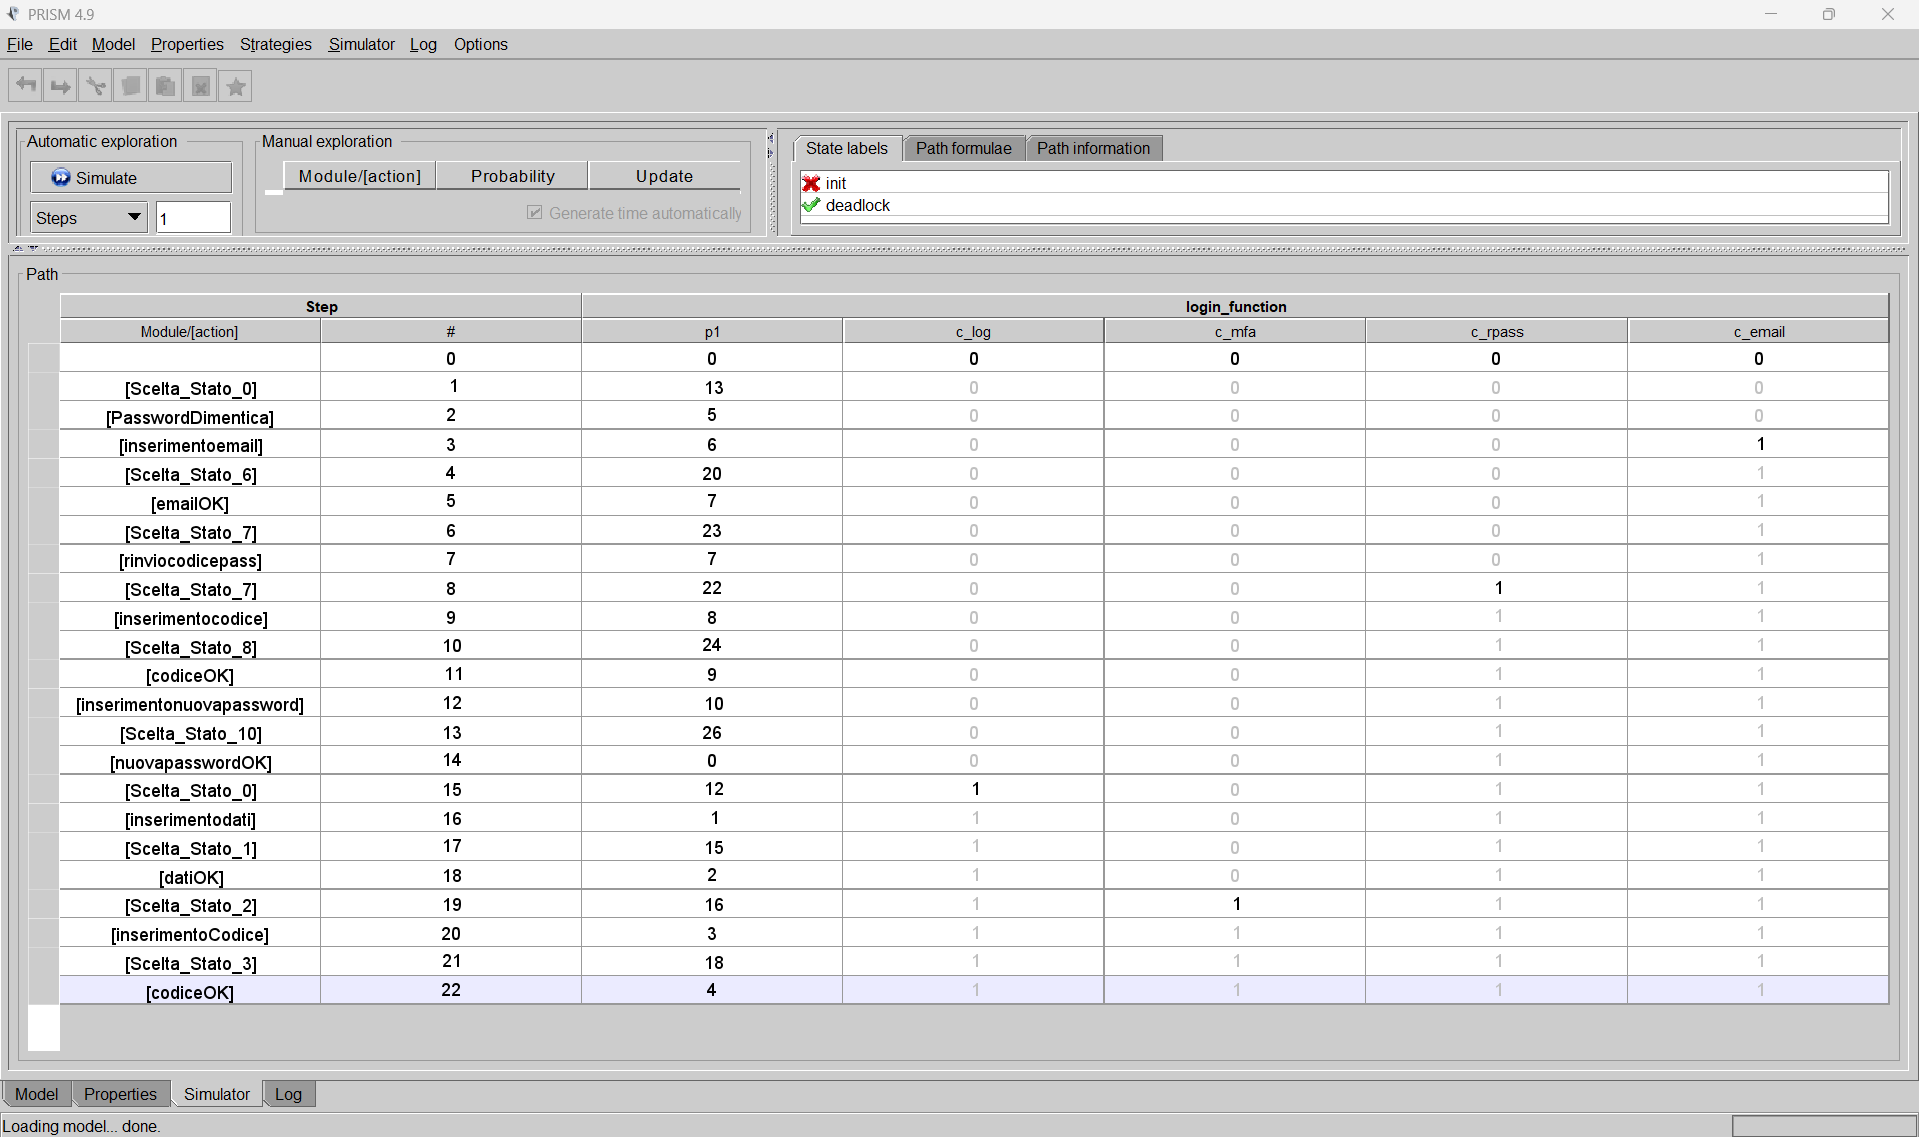
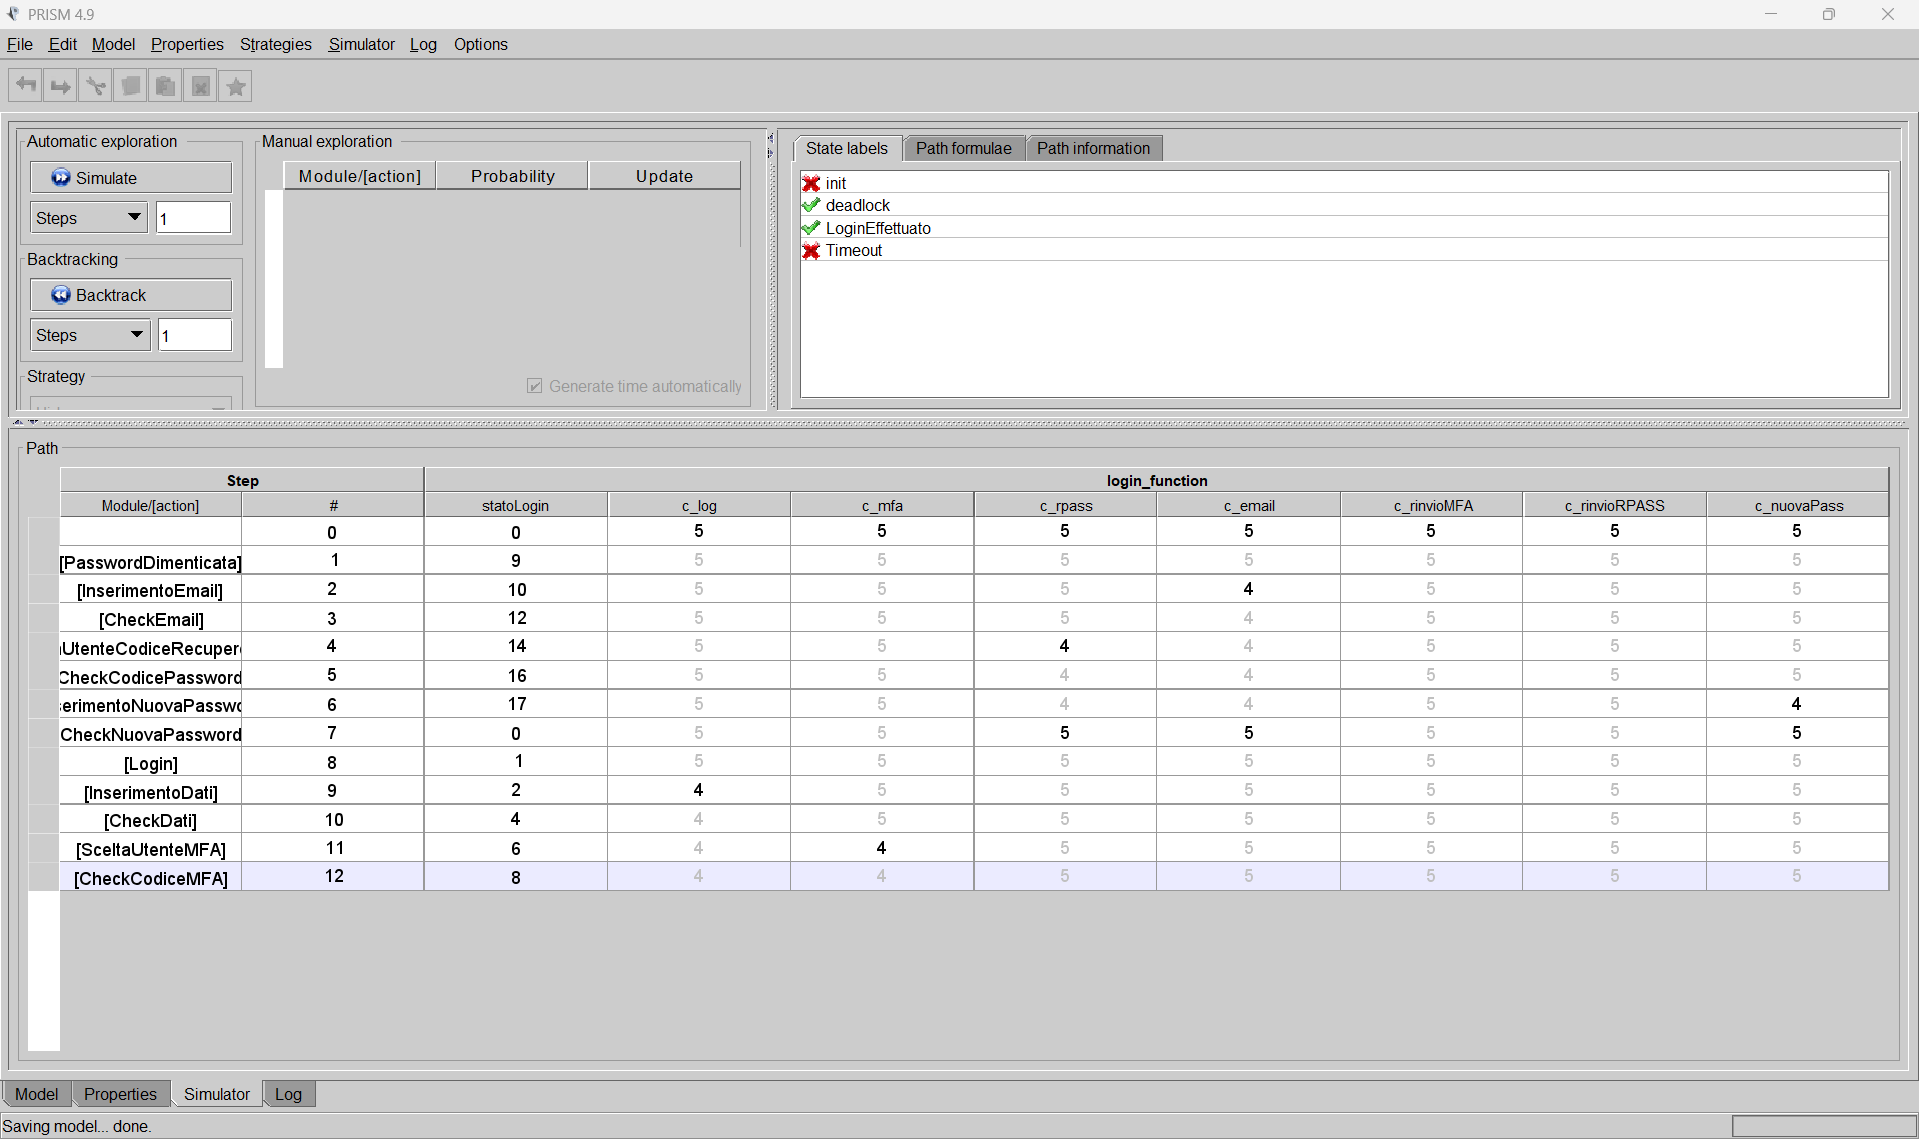
Aggiornate foto simulazioni del login

diff --git a/Latex/chapter3/chapter3.tex b/Latex/chapter3/chapter3.tex
@@ -323,7 +323,7 @@ Di seguito è riportato il codice PRISM utilizzato per il modello della funzione
 \\
 \dotblack{[}\variable{CheckCodiceMFA}\dotblack{]}
 (\variable{statoLogin}=\numberb{6})
--> \variable{P6\_8}:(\variable{statoLogin'}=\numberb{7}) +
+-> \variable{P6\_8}:(\variable{statoLogin'}=\numberb{8}) +
 \\ (\numberb{1}-\variable{P6\_8}):(\variable{statoLogin'}=\numberb{7});
 \\\\
 \cmt{// Uscenti da 7}
@@ -664,7 +664,7 @@ La figura 3.1 mostra la simulazione del login da parte di un utente che inserisc
 
 \begin{figure}[ht!]
 	\centering
-	\includegraphics[width=0.9\columnwidth]{chapter3/immagini/Simulazione_credenziali_sbagliate_x5.png}
+	\includegraphics[width=0.9\columnwidth]{chapter3/immagini/Simulazione_credenziali_sbagliate.png}
     \caption{Timeout login con credenziali sbagliate 5 volte.}
 \end{figure}
 
